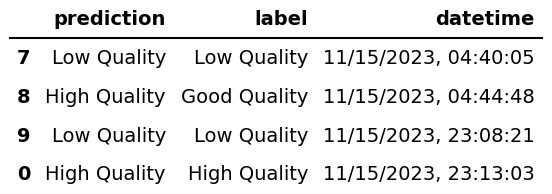
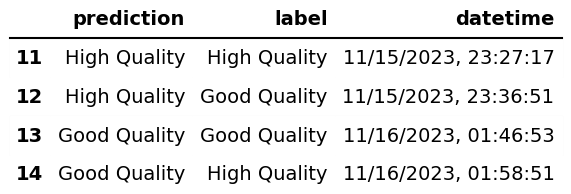
Added a wine simulation and made it so that the batch inference pipeline predicts the last added wine from the simulation. The confusion matrix is now only calculated from the history of predictions.

diff --git a/wine-batch-inference-pipeline.py b/wine-batch-inference-pipeline.py
@@ -3,22 +3,22 @@ import modal
     
 LOCAL=True
 
+# Use this function to run on modal once every day
 if LOCAL == False:
    stub = modal.Stub()
-   hopsworks_image = modal.Image.debian_slim().pip_install(["hopsworks","joblib","seaborn","scikit-learn","dataframe-image"])
+   hopsworks_image = modal.Image.debian_slim().pip_install(["hopsworks","joblib","seaborn","scikit-learn","dataframe-image", 'numpy'])
    @stub.function(image=hopsworks_image, schedule=modal.Period(days=1), secret=modal.Secret.from_name("HOPSWORKS_API_KEY"))
    def f():
        g()
 
+
 def g():
     import pandas as pd
     import hopsworks
-    from PIL import Image
     from datetime import datetime
     import dataframe_image as dfi
     from sklearn.metrics import confusion_matrix
     import seaborn as sns
-    import requests
     import keras
     import numpy as np
 
@@ -28,6 +28,9 @@ def g():
     mr = project.get_model_registry()
     model = mr.get_model("wine_model", version=1)
     model_dir = model.download()
+
+    # Load the model and the weights
+
     n_input = 7  # Number of features
     n_hidden = 256  # Number of hidden nodes
     n_out = 3  # Number of classes
@@ -45,24 +48,29 @@ def g():
     ])
     model.load_weights(model_dir + "/wine_model.h5")
 
+    # Get the latest training data, in this case just the initial training data
     feature_view = fs.get_feature_view(name="wine", version=1)
     batch_data = feature_view.get_batch_data()
-    
+
+    # Do the model predictions
     y_pred = model.predict(batch_data)
-    offset = np.random.randint(0, 100)
-    wine_quality = y_pred[offset]
+
+    # Pick a random offset and choose that prediction to use in the history png
+    wine_quality = y_pred[-1]
     dataset_api = project.get_dataset_api()
    
     wine_fg = fs.get_feature_group(name="wine", version=1)
     df = wine_fg.read()
-    label = df.iloc[offset]["quality"]
+    label = df.iloc[-1]["quality"]
 
+    # Get the previous wine predictions
     monitor_fg = fs.get_or_create_feature_group(name="wine_predictions",
                                                 version=1,
                                                 primary_key=["datetime"],
                                                 description="Wine quaility Prediction/Outcome Monitoring"
                                                 )
-    
+
+    # Add the new wine prediction to the history
     now = datetime.now().strftime("%m/%d/%Y, %H:%M:%S")
     data = {
         'prediction': [wine_quality],
@@ -72,8 +80,9 @@ def g():
     monitor_df = pd.DataFrame(data)
     monitor_fg.insert(monitor_df, write_options={"wait_for_job" : False})
 
+    # Create an image of the history to display on the app
     history_df = monitor_fg.read()
-    history_df = pd.concat([history_df, monitor_df])
+    history_df = pd.concat([history_df, monitor_df], ignore_index=True)
 
     # Create a clear prediction history
     history_df['label'] = history_df.label.apply(lambda q: 'Low Quality' if q == 0
@@ -86,11 +95,13 @@ def g():
     dfi.export(df_recent, './df_recent.png', table_conversion='matplotlib')
     dataset_api.upload("./df_recent.png", "Resources/images", overwrite=True)
 
-    predictions = y_pred
-    labels = df["quality"]
+    # Create a confusion matrix of the last 500 elements in the training data.
+    predictions = history_df.prediction.apply(lambda q: 0 if q == 'Low Quality'
+                                                        else 1 if q == 'Good Quality' else 2)
+    labels = history_df[['label']]
 
-    # Take the 150 last elements in the training set and produce a confusion matrix
-    results = confusion_matrix(labels[-500:], np.argmax(predictions, axis=1)[-500:])
+    # Take the 500 last elements in the training set and produce a confusion matrix, upload it to hopsworks.
+    results = confusion_matrix(labels, predictions)
 
     df_cm = pd.DataFrame(results, ['True Low Quality', 'True Good Quality', 'True High Quality'],
                          ['Pred Low Quality', 'Pred Good Quality', 'Pred High Quality'])

diff --git a/wine-feature-pipeline-daily.py b/wine-feature-pipeline-daily.py
@@ -1,0 +1,83 @@
+import os
+import modal
+
+LOCAL=True
+
+if LOCAL == False:
+   stub = modal.Stub("iris_daily")
+
+   image = modal.Image.debian_slim().pip_install(["hopsworks", "numpy"])
+
+   @stub.function(image=image, schedule=modal.Period(days=1), secret=modal.Secret.from_name("id2223"))
+   def f():
+       g()
+
+
+def generate_wine(quality, type_percent, vol_acid_mean, vol_acid_std, citric_acid_mean, citric_acid_std,
+                    chlorides_mean, chlorides_std, sulfur_mean, sulfur_std, density_mean, density_std,
+                  alcohol_mean, alcohol_std):
+    """
+    Returns a single iris flower as a single row in a DataFrame
+    """
+    import pandas as pd
+    import numpy as np
+
+    # We model each wine feature as being a gaussian with the mean and std as given by the data of each quality.
+    # This is obviously a simplification, since a few of the distributions are multi-modal (gaussian) distributions,
+    # but this suffices as an approximation and applies well to most variables.
+    df = pd.DataFrame({"type": [int(np.random.choice(2, 1, p=[1-type_percent, type_percent])[0])],
+                       "volatile_acidity": [vol_acid_mean + vol_acid_std * np.random.randn()],
+                       "citric_acid": [citric_acid_mean + citric_acid_std * np.random.randn()],
+                       "chlorides": [chlorides_mean + chlorides_std * np.random.randn()],
+                       "total_sulfur_dioxide": [sulfur_mean + sulfur_mean * np.random.randn()],
+                       "density": [density_mean + density_std * np.random.randn()],
+                       "alcohol": [alcohol_mean + alcohol_std * np.random.randn()]
+                      })
+    df['quality'] = quality
+    return df
+
+
+def get_random_wine_quality():
+    """
+    Returns a DataFrame containing one random iris flower
+    """
+    import pandas as pd
+    import random
+
+    high_quality_df = generate_wine(2, 0.17, 0.29, 0.12, 0.33, 0.11, 0.045, 0.021, 110, 47, 0.9930, 0.0030, 11.4, 1.2)
+    good_quality_df = generate_wine(1, 0.22, 0.31, 0.15, 0.32, 0.14, 0.054, 0.031, 115, 55, 0.9946, 0.0030, 10.6, 1.1)
+    low_quality_df = generate_wine(0, 0.31, 0.40, 0.19, 0.30, 0.16, 0.065, 0.043, 119, 62, 0.9958, 0.0025, 9.9, 0.84)
+
+    # randomly pick one of these 3 and write it to the featurestore
+    pick_random = random.uniform(0, 3)
+    if pick_random == 2:
+        wine_df = high_quality_df
+        print("High Quality Wine added")
+    elif pick_random == 1:
+        wine_df = good_quality_df
+        print("Good Quality Wine added")
+    else:
+        wine_df = low_quality_df
+        print("Low Quality Wine added")
+
+    return wine_df
+
+
+def g():
+    import hopsworks
+    import pandas as pd
+
+    project = hopsworks.login()
+    fs = project.get_feature_store()
+
+    wine_df = get_random_wine_quality()
+    wine_fg = fs.get_feature_group(name="wine", version=1)
+    wine_fg.insert(wine_df)
+
+if __name__ == "__main__":
+    if LOCAL == True :
+        g()
+    else:
+        stub.deploy("iris_daily")
+        with stub.run():
+            f()

diff --git a/huggingface-spaces-wine-monitor/app.py b/huggingface-spaces-wine-monitor/app.py
@@ -7,7 +7,7 @@ fs = project.get_feature_store()
 dataset_api = project.get_dataset_api()
 wine_pred_fg = fs.get_feature_group(name="wine_predictions", version=1)
 df = wine_pred_fg.read()
-print(df)
+
 latest_pred = df['prediction'].iloc[-1]
 latest_label = df['label'].iloc[-1]
 latest_pred = {'High Quality': float(latest_pred[2]),
